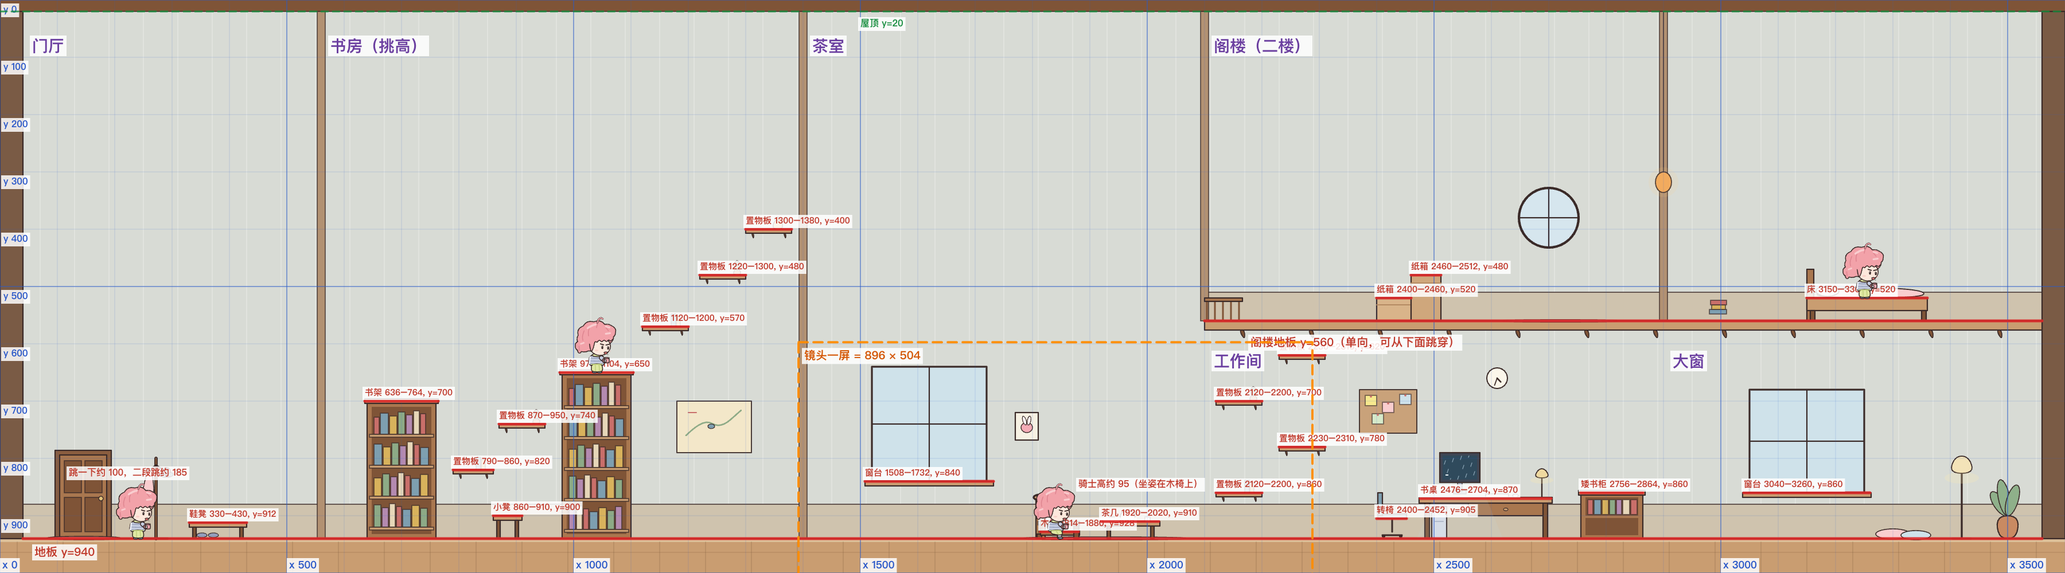
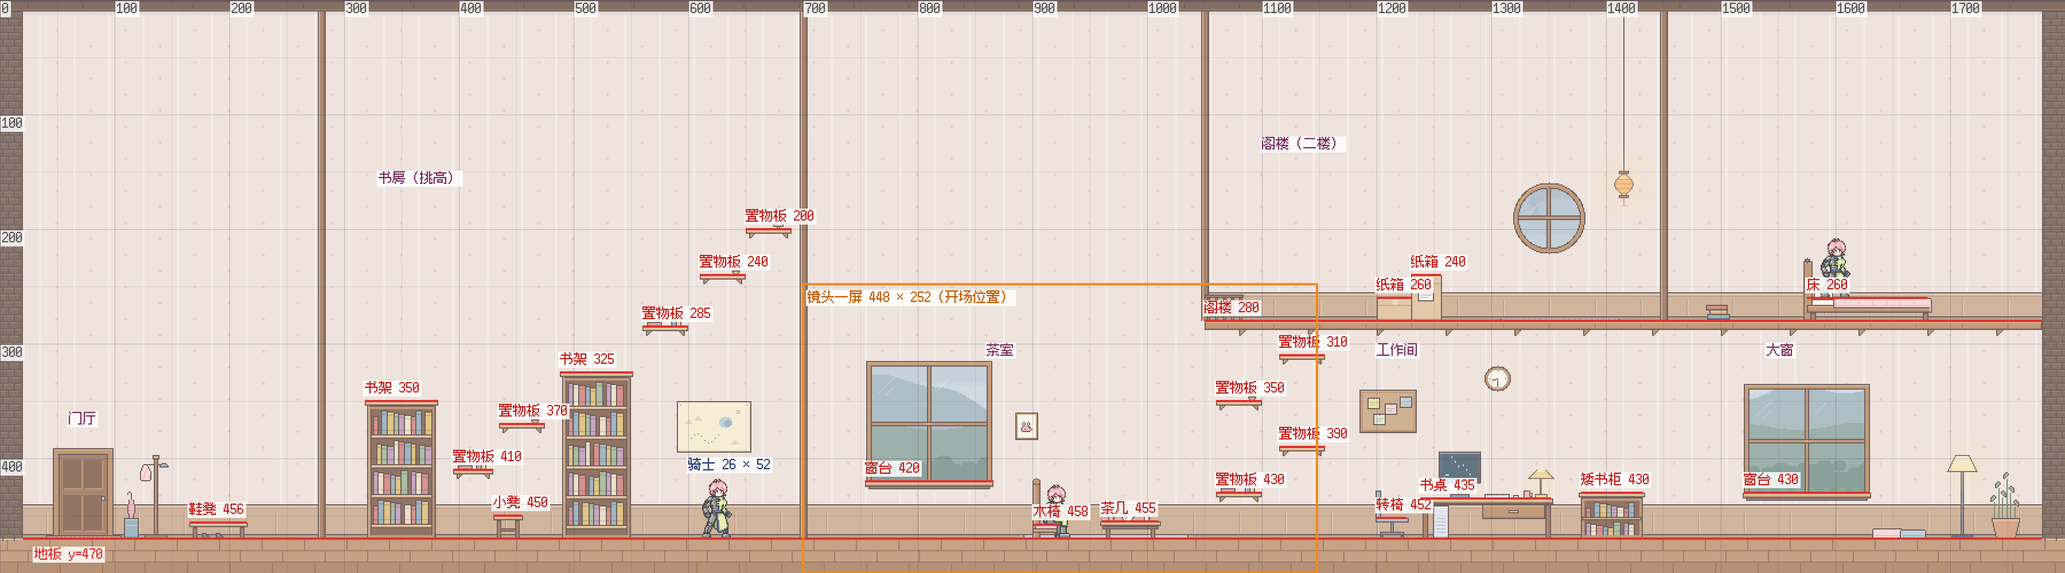
Add an 8-frame walk and rewrite the art brief for pixel art
- Walk cycle: legs redrawn as thigh, shin and boot with simple two-bone
  IK over classic contact / down / passing / up keyframes, with body bob,
  arm swing and tabard sway (temporary until commissioned frames arrive)
- Art brief: pixel coordinates, platform table, layer breakdown, sprite
  spec and delivery format; new 1x reference map, annotated layout guide,
  frame sheet with palette, and the current layers as PNGs
- Snap the office chair platform to a whole pixel

Changed region(s): [[0.0, 0.0, 1.0, 1.0]]

diff --git a/js/stage/sprites.js b/js/stage/sprites.js
@@ -5,7 +5,8 @@
    原图只有一帧（站姿），其余动作都是从它「改」出来的：
      呼吸：身体中间抽掉一行 → 头和肩膀往下沉 1 像素
      眨眼 / 开心（^ ^）：只改眼睛那几个像素
-     走路：后腿往前、前腿往后错开（按行逐渐错位），中间那帧身体抬高 1 像素
+     走路：8 帧，两条腿重新画（大腿 + 小腿 + 靴子，膝盖往前弯），身体一起一伏、两手前后摆、长摆轻晃
+           ——临时手调的，画师交稿后整套换掉
      起跳：膝盖收起（腿抽掉 4 行，整个人往上提）；下落：两腿微微分开；落地：蹲一下（抽掉 2 行）
      坐：上半身照旧，下半身换成画好的坐姿（大腿平放、小腿垂下）
    以后找画师画好真正的帧动画，只要换掉这里的帧就行（Room 只按名字取帧）
@@ -144,25 +145,84 @@ function kEyes(g0, kind){
   }
   return g;
 }
+/* ---------- 走路（8 帧）----------
+   经典走路循环：触地 → 下沉 → 交错（另一只脚抬起来）→ 上升 → 换另一只脚触地 …
+   每帧给出两只脚相对各自髋部的位置（x 偏移、抬起多高），膝盖用两段 IK 算出来、往前弯；
+   上半身、两只手、长摆从原图里切出来，按帧上下起伏 / 前后摆 */
+const WALK_BOB = [0, 1, 0, -1, 0, 1, 0, -1];
+const WALK_FRONT = [[6, 0], [4, 0], [0, 0], [-4, 0], [-7, 0], [-6, 0], [-1, 3], [4, 2]];   // 前腿（画面右边那条）
+const WALK_BACK = [[-6, 0], [-5, 0], [0, 3], [6, 2], [10, 0], [7, 0], [2, 0], [-3, 0]];    // 后腿（被长摆挡住一半）
+const BOOT_FRONT = ['.k1kkk...', 'k13222k..', 'k1322221k', 'k1111111k', 'kkkkkkkkk'];
+const BOOT_BACK = ['.kkkkk...', 'k12111k..', 'k1211111k', 'k1111111k', 'kkkkkkkkk'];
+const rHalfEven = v => { const f = Math.floor(v), d = v - f; return d > 0.5 ? f + 1 : d < 0.5 ? f : (f % 2 ? f + 1 : f); };
+function kLeg(F, hx, hy, fx, fy, back){
+  const L1 = 9.5, L2 = 9, R = 2.7;
+  const d = Math.min(Math.hypot(fx - hx, fy - hy), L1 + L2 - 0.01), a = Math.atan2(fy - hy, fx - hx);
+  const b = Math.acos(clamp((L1 * L1 + d * d - L2 * L2) / (2 * L1 * d), -1, 1));
+  const kx = hx + L1 * Math.cos(a - b), ky = hy + L1 * Math.sin(a - b);
+  const fill = back ? '1' : '2', lt = back ? '2' : '3';
+  const seg = (x0, y0, x1, y1) => {   // 粗线段：外圈黑边，靠前一侧亮、靠后一侧暗
+    const vx = x1 - x0, vy = y1 - y0, L = Math.hypot(vx, vy) || 1, nx = -vy / L, ny = vx / L;
+    for (let r = 0; r < F.length; r++) for (let c = 0; c < KW; c++){
+      const px = c - KPAD, t = clamp(((px - x0) * vx + (r - y0) * vy) / (L * L), 0, 1);
+      const cx = x0 + vx * t, cy = y0 + vy * t, dd = Math.hypot(px - cx, r - cy);
+      if (dd > R + 0.9) continue;
+      const side = (px - cx) * nx + (r - cy) * ny;
+      F[r][c] = dd > R - 0.4 ? 'k' : side < -1 ? '1' : side > 0.9 ? lt : fill;
+    }
+  };
+  seg(hx, hy, kx, ky); seg(kx, ky, fx, fy);
+  const kr = rHalfEven(ky), kc = rHalfEven(kx) + KPAD;   // 膝盖上的护甲亮点
+  if (F[kr]){ F[kr][kc] = back ? '2' : '3'; if (kc + 1 < KW) F[kr][kc + 1] = 'k'; }
+  const boot = back ? BOOT_BACK : BOOT_FRONT, bx = rHalfEven(fx) - 3 + KPAD, by = rHalfEven(fy) - 1;
+  boot.forEach((row, i) => [...row].forEach((ch, j) => { if (ch !== '.' && F[by + i] && bx + j < KW) F[by + i][bx + j] = ch; }));
+}
+function kWalkCycle(g0){
+  const src = g0.map(r => r.slice(KPAD, KPAD + 26)), at = (r, c) => (src[r] && src[r][c]) || '.';
+  const pick = (r0, r1, c0, c1, ok = () => true) => {
+    const out = [];
+    for (let r = r0; r <= r1; r++) for (let c = c0; c <= c1; c++) if (at(r, c) !== '.' && ok(r, c)) out.push([r, c]);
+    return out;
+  };
+  const key = ([r, c]) => r * 100 + c;
+  const lhand = pick(24, 33, 0, 7, (r, c) => !(r < 29 && c > 6));
+  const rhand = pick(28, 33, 21, 25);
+  const hands = new Set([...lhand, ...rhand].map(key));
+  const tab = pick(29, 46, 11, 21, (r, c) => !hands.has(r * 100 + c));
+  const tabSet = new Set(tab.map(key));
+  const body = pick(0, 28, 0, 25, (r, c) => !hands.has(r * 100 + c))
+    .concat(pick(29, 33, 6, 12, (r, c) => !hands.has(r * 100 + c) && !tabSet.has(r * 100 + c)));
+  return WALK_BOB.map((bob, i) => {
+    const F = kBlank(52), [fbx, fby] = WALK_BACK[i], [ffx, ffy] = WALK_FRONT[i];
+    kLeg(F, 8, 31 + bob, 8 + fbx, 47.5 - fby, true);
+    kLeg(F, 16, 31 + bob, 16 + ffx, 47.5 - ffy, false);
+    const put = (r, c, ch) => { if (F[r] && c >= 0 && c < KW) F[r][c] = ch; };
+    const sway = [0, 0, -1, -1, 0, 0, -1, -1][i], swing = ffx >= 3 ? 1 : (ffx <= -3 ? -1 : 0);
+    for (const [r, c] of body) put(r + bob, c + KPAD, at(r, c));
+    for (const [r, c] of tab) put(r + bob, c + KPAD + (r >= 40 ? sway : 0), at(r, c));
+    for (const [r, c] of lhand) put(r + bob, c + KPAD + (r >= 27 ? swing : 0), at(r, c));
+    for (const [r, c] of rhand) put(r + bob, c + KPAD - (r >= 29 ? swing : 0), at(r, c));
+    return F;
+  });
+}
 function kSit(g0){
   return g0.slice(0, 29).map(r => r.slice()).concat(kGrid(KNIGHT_SIT_LEGS));
 }
 
 /* KF[眼睛][动作] = { r: 朝右的画布, l: 朝左的画布, h: 高 }；K_DY：画的时候整体往上挪几像素 */
 const KF = {};
-const K_DY = { pass: -1, jump: -4 };
+const K_DY = { jump: -4 };
 for (const eye of ['open', 'blink', 'happy']){
   const g0 = kEyes(kGrid(KNIGHT_BASE), eye);
   const poses = {
     idle: g0,
     breathe: kDropRows(g0, 21, 1),
-    mid: kWalk(g0, 2, -2, 0),
-    pass: kWalk(g0, 5, -5, 1),
     jump: kDropRows(g0, 37, 4),
     fall: kWalk(g0, -2, 2, 0),
     land: kDropRows(g0, 37, 2),
     sit: kSit(g0),
   };
+  kWalkCycle(g0).forEach((g, i) => { poses['walk' + i] = g; });
   KF[eye] = {};
   for (const [name, g] of Object.entries(poses)){
     const rows = g.map(r => r.join(''));

diff --git a/js/stage/room.js b/js/stage/room.js
@@ -44,7 +44,7 @@ const CHAIR_SEAT = plat('木椅', 1802, 1848, 916);
 const PERCH = [1806, 824];             // 骑士坐着时，兔耳小鸟停在椅背顶上
 plat('茶几', 1920, 2020, 910);
 for (const [x0, x1, y] of [[2120, 2200, 860], [2230, 2310, 780], [2120, 2200, 700], [2230, 2310, 620]]) plat('置物板', x0, x1, y);
-plat('转椅', 2400, 2452, 905);
+plat('转椅', 2400, 2452, 904);
 plat('书桌', 2476, 2704, 870);
 plat('矮书柜', 2756, 2864, 860);
 plat('窗台', 3040, 3260, 860);
@@ -310,7 +310,7 @@ const Room = {
     if (this.sitting) return 'sit';
     if (!this.grounded) return this.vy < 0 ? 'jump' : 'fall';
     if (this.landT > 0) return 'land';
-    if (this.walking) return ['idle', 'mid', 'pass', 'mid'][Math.floor(this.phase / (Math.PI / 3)) % 4];
+    if (this.walking) return 'walk' + (Math.floor(this.phase / (Math.PI / 4)) % 8);   // 8 帧，满速约 14 帧/秒
     return (this.t % 1.6) < 0.8 ? 'idle' : 'breathe';
   },
   _drawKnight(q){

diff --git a/docs/art-brief/README.md b/docs/art-brief/README.md
@@ -1,83 +1,157 @@
-# 听雨 · 美术需求（给画师）
+# 听雨 · 美术需求（像素风 · 给画师）
 
-> 现在游戏里所有的画面都是**用代码画的**，没有图片文件：
-> - 房子、家具、窗外景色、前景：`js/stage/room.js`（`drawHouse`、`drawLibrary`、`drawStudy` 等函数）
-> - 骑士和兔耳小鸟：`js/stage/knight.js`（`drawKnight`、`drawBunny`）
->
-> 这个文件夹里的图就是从代码里导出来的参考图，请照着它的**尺寸和位置**重新画；风格可以自由发挥。
+听雨是一个在浏览器里用的效率工具（任务、番茄钟、习惯打卡）。左边是一个**横版 2D 的小房子**（空洞骑士那种纯侧面视角），粉发骑士可以在里面走、跳、坐。整个画面是**像素画**。
 
-## 参考图
+> 现在游戏里的画面都是**用代码临时画的**，没有图片文件。这个文件夹里的图是从游戏里导出来的参考图。
+> 请照着它们的**尺寸和位置**重画。风格、细节、配色可以自由发挥，只要还是像素画。
+
+---
+
+## 一、整体风格
+
+- **像素画**：不要抗锯齿、不要模糊、不要缩放或旋转出来的「半个像素」。
+  - 半透明只用在灯光、玻璃反光和阴影上。
+- **1 个像素就是游戏里的 1 格**：请按 **1 倍**画，不要放大后再交。
+  - 游戏会按整数倍放大显示（Mac 上大约 4 倍）。
+- **角色和背景要分得开**：
+  - 骑士用黑色描边、对比强。
+  - 房子的描边用深棕（参考 `#3d2c2a`），颜色比角色淡、灰一点，让角色跳出来。
+- **氛围**：下雨天、暖暖的木头小屋，有书、有茶、有电脑、有小盆栽。窗外一直在下雨（App 的名字就叫「听雨」）。
+- **主题色**：底部有 7 个主题色（墨黑、透白、雨蓝、浅绿、浅粉、灰紫、浅金），会改变**墙纸和地毯**的颜色。
+  - 请把墙纸、地毯各画成单独一层，用接近白色的浅灰画出明暗。
+  - 程序会按主题上色，其余部分只画一套就行。默认主题是「浅粉」。
+
+## 二、参考图
 
 | 文件 | 内容 |
 |---|---|
-| `house_reference.png` | 整张地图（3600 × 1000），干净版 |
-| `house_layout_guide.png` | 同一张图加标注：坐标网格（每 100 一格）、区域、**能站的平台（红线）**、镜头一屏的大小（橙色框）、骑士的大小 |
-| `knight_poses.png` | 骑士现有的姿势：IDLE、MOVE（4 帧）、JUMP、FALL、SIT、喝茶、举杯、眨眼；兔耳小鸟 |
+| `house_reference.png` | 整张地图，**1 倍像素**（1800 × 500），干净版，可以直接在上面改 |
+| `house_layout_guide.png` | 同一张图放大 2 倍并加了标注：<br>• 坐标网格（每 50 像素一格，数字是 1 倍坐标）<br>• 区域名<br>• **能站的平台（红线 + 高度）**<br>• 镜头一屏的大小（橙色框）<br>• 骑士的大小 |
+| `knight_frames.png` | 骑士现在所有的帧、兔耳小鸟、爱心，以及骑士用的 15 个颜色 |
+| `layers/` | 游戏里现在的各层（1 倍、透明 PNG）：<br>• 房子 `house.png`（窗户玻璃是透明的）<br>• 窗外远景 `far.png`<br>• 前景的柱子、盆栽、藤蔓 `fg_*.png`<br>• 木椅的扶手 `chair_front.png` |
 
-## 地图尺寸
+## 三、地图尺寸（全部是 1 倍像素坐标，左上角是 0,0）
 
-- 整张地图：**3600 × 1000**（约 4 屏宽、2 屏高）。为了清晰，建议按 **2 倍（7200 × 2000）** 画。
-- 镜头一屏：**896 × 504**（16:9），镜头会跟着骑士移动。
-- 地板顶面 y = 940；阁楼（二楼）地板顶面 y = 560，从 x = 2100 开始；屋顶 y = 20；左右墙在 x = 40 和 x = 3560。
-- 骑士高约 **95**（含大头），宽约 30。跳一下约 100 高，二段跳约 185 高。
+| | |
+|---|---|
+| 整张地图 | **1800 × 500**（约 4 屏宽、2 屏高） |
+| 镜头一屏 | **448 × 252**（16:9），跟着骑士移动 |
+| 地板顶面 | y = **470**（地板本身画到 500） |
+| 阁楼（二楼）地板顶面 | y = **280**，从 x = **1050** 一直到右墙 |
+| 屋顶 | y = 10；左右墙内侧在 x = 20 和 x = 1780 |
+| 骑士 | **26 × 52**；跳一下约 51 高，二段跳约 93 高 |
 
-## 请分层画（透明 PNG，或者带图层的 PSD）
+区域从左到右：
+- **门厅**：门、伞桶、衣帽架、鞋凳
+- **书房**：挑高到屋顶，两个高书架 + 一路往上的置物板，最高处有个小铃铛
+- **茶室**：窗、木椅、茶几、地毯、兔子小画；骑士开场坐在这里
+- **工作间**：在阁楼下面；软木板、挂钟、转椅、书桌、电脑、台灯、矮书柜
+- **大窗**：落地灯、坐垫、大盆栽
+- **阁楼**：栏杆、纸箱、灯笼、圆窗、床，从茶室旁边的一排置物板跳上去
 
-游戏里不同的层移动速度不一样（视差），所以必须分开：
+## 四、请分层画
+
+不同的层在游戏里移动速度不一样（视差），所以必须分开交：
 
 | 层 | 内容 | 说明 |
 |---|---|---|
-| 1. 远景 | 窗外的天、远山、云 | 只在窗户里露出来，镜头移动时它只动一半。画成一张比窗户大很多、能左右接起来的长条 |
-| 2. 背景 | 墙、墙纸、护墙板、屋顶梁、竖梁、窗框、门、墙上的画 / 地图 / 软木板 / 挂钟 | 不能站的东西都在这层 |
-| 3. 中景（家具） | 书架、置物板、小凳、茶几、木椅、书桌、电脑、转椅、矮书柜、床、纸箱、阁楼地板、地板 | 能站的家具**顶面要跟下表的 y 对齐**（误差最好在 2 以内）；能动的东西（电脑屏幕、台灯光、挂钟指针、茶壶热气）最好单独一张 |
-| 4. 前景 | 深色木柱、从屋顶垂下的藤蔓、大盆栽 | 离镜头最近，移动得比房子快；**每个物件单独一张** |
-| 5. 角色 | 骑士、兔耳小鸟 | 另外约稿（帧动画），见下面 |
+| 1. 远景 | 窗外的天、远山、树、雨云 | 只在窗户里露出来，镜头动时它只动一半。<br>画成一张宽约 1200、高约 340 的长条（参考 `layers/far.png`）。<br>雨丝由程序画，不用画。 |
+| 2. 背景 | 墙、屋顶梁、竖梁、护墙板、窗框、门、墙上的画 / 地图 / 软木板 / 挂钟表盘 | 不能站的东西。<br>**窗户的玻璃留透明**。<br>墙纸单独一层（见「一」）。 |
+| 3. 中景（家具） | 书架、置物板、小凳、茶几、木椅、书桌、电脑、转椅、矮书柜、床、纸箱、阁楼地板、地板、地毯（单独一层） | 能站的家具，**顶面要和下表的 y 对齐**（像素对像素）。 |
+| 4. 前景 | 深色木柱、从屋顶垂下的藤蔓、大盆栽 | 离镜头最近，移动得比房子快。<br>**每个物件单独一张**，颜色更深、更暗。 |
+| 5. 角色 | 骑士、兔耳小鸟 | 帧动画，见第六节。 |
 
-木椅要拆成两张：**椅背 + 椅座**（在骑士身后）和 **扶手 + 前腿**（骑士坐着时挡在他前面）。
+**要单独一张的小东西**（会动，程序来控制）：
 
-## 能站的平台（顶面坐标，必须对齐）
+| 物件 | 位置 / 大小 | 要画什么 |
+|---|---|---|
+| 电脑屏幕 | 左上角 (1257, 397)，31 × 22 | 2–4 帧，屏幕里在下雨 |
+| 挂钟 | 中心 (1305, 330)，半径约 10 | 表盘画在背景里；时针、分针单独画，或者交给程序 |
+| 台灯的光 | 中心 (1343, 421) | 抖动或半透明的光圈 |
+| 落地灯的光 | 中心 (1710, 410) | 同上 |
+| 灯笼的光 | 中心 (1415, 161) | 同上 |
+| 茶壶的热气 | 茶壶上方 (984, 443) | 3–4 帧 |
+| 主机的小灯 | (1255, 446) | 亮 / 暗两帧 |
+| 木椅 | 拆成两张 | **椅背 + 椅座**在骑士身后；**扶手**在骑士坐着时挡在他前面。<br>椅面顶 y = 458（离地 12 像素），椅背在 x = 900–906。 |
+
+## 五、能站的平台（顶面 y，必须对齐）
 
 | 名称 | x 范围 | 顶面 y |
 |---|---|---|
-| 地板 | 40 – 3560 | 940 |
-| 鞋凳 | 330 – 430 | 912 |
-| 书架 | 636 – 764 | 700 |
-| 置物板 | 790 – 860 | 820 |
-| 小凳 | 860 – 910 | 900 |
-| 置物板 | 870 – 950 | 740 |
-| 书架 | 976 – 1104 | 650 |
-| 置物板 | 1120 – 1200 | 570 |
-| 置物板 | 1220 – 1300 | 480 |
-| 置物板 | 1300 – 1380 | 400 |
-| 窗台 | 1508 – 1732 | 840 |
-| 木椅 | 1814 – 1880 | 928 |
-| 茶几 | 1920 – 2020 | 910 |
-| 阁楼 | 2100 – 3560 | 560 |
-| 置物板 | 2120 – 2200 | 700 |
-| 置物板 | 2120 – 2200 | 860 |
-| 置物板 | 2230 – 2310 | 620 |
-| 置物板 | 2230 – 2310 | 780 |
-| 纸箱 | 2400 – 2460 | 520 |
-| 转椅 | 2400 – 2452 | 905 |
-| 纸箱 | 2460 – 2512 | 480 |
-| 书桌 | 2476 – 2704 | 870 |
-| 矮书柜 | 2756 – 2864 | 860 |
-| 窗台 | 3040 – 3260 | 860 |
-| 床 | 3150 – 3360 | 520 |
+| 地板 | 20 – 1780 | 470 |
+| 鞋凳 | 165 – 215 | 456 |
+| 书架 | 318 – 382 | 350 |
+| 置物板 | 395 – 430 | 410 |
+| 小凳 | 430 – 455 | 450 |
+| 置物板 | 435 – 475 | 370 |
+| 书架 | 488 – 552 | 325 |
+| 置物板 | 560 – 600 | 285 |
+| 置物板 | 610 – 650 | 240 |
+| 置物板（小铃铛） | 650 – 690 | 200 |
+| 窗台 | 754 – 866 | 420 |
+| 木椅 | 901 – 924 | 458 |
+| 茶几 | 960 – 1010 | 455 |
+| 阁楼 | 1050 – 1780 | 280 |
+| 置物板 | 1060 – 1100 | 430 |
+| 置物板 | 1060 – 1100 | 350 |
+| 置物板 | 1115 – 1155 | 390 |
+| 置物板 | 1115 – 1155 | 310 |
+| 转椅 | 1200 – 1226 | 452 |
+| 纸箱 | 1200 – 1230 | 260 |
+| 纸箱 | 1230 – 1256 | 240 |
+| 书桌 | 1238 – 1352 | 435 |
+| 矮书柜 | 1378 – 1432 | 430 |
+| 窗台 | 1520 – 1630 | 430 |
+| 床 | 1575 – 1680 | 260 |
 
-平台都是「单向」的：从下面能跳穿上去，从上面落下能站住。如果画师想改家具的位置或高度，没关系，把新的坐标告诉我，我来改代码；只要跳得上去就行（相邻两层之间高度差最好不超过 100，用二段跳最多 185）。
+平台都是「单向」的：从下面能跳穿上去，从上面落下能站住。
 
-## 骑士 / 小鸟（帧动画）
+想改家具的位置或高度没关系，把新坐标告诉我，我来改代码。只要跳得上去就行：
+- 相邻两层的高度差，最好不超过 **50**（一跳）；
+- 用二段跳最多 **90**。
 
-- 只需要画**一个朝向（面朝右）**，往左走时程序会镜像。
-- 需要的动作：IDLE（呼吸 + 眨眼）、MOVE（走路一个循环）、JUMP（起跳）、FALL（下落）、二段跳（可以加一下扑翅膀）、SIT（坐在木椅上）、喝茶、举杯；兔耳小鸟：飞行循环。
-- 每个动作 4–8 帧；所有帧画布一样大，**脚底在同一条线上**（坐姿以椅座为准）。
-- 推荐用 Aseprite（像素风）或 Spine / 分层 PSD（手绘风）交付；Aseprite 请把每个动作用标签分好、设好每帧时长，并导出 PNG 精灵图 + JSON。
+## 六、骑士（帧动画）
 
-## 交付后
+现在游戏里的骑士是一张 26 × 52 的像素图（见 `knight_frames.png` 第一格）。只有这一帧是手画的，其余动作都是程序从它改出来的临时帧，所以动作比较僵。**请在这张图的基础上画出下面的动作**：
 
-把文件放进 `assets/house/`（背景各层）和 `assets/knight/`（角色），告诉我文件名，我把代码里画的部分换成图片。
+| 动作 | 建议帧数 | 每帧时长 | 说明 |
+|---|---|---|---|
+| 站立 IDLE | 4–6 | 150–200 ms | 循环；呼吸、长摆轻晃 |
+| 眨眼 | 1–2 | — | 只画眼睛那几帧，程序随机插进去 |
+| 走路 MOVE | 6–8 | 80–100 ms | 循环；两腿交替迈步、手臂前后摆、身体一起一伏、长摆跟着晃 |
+| 起跳 JUMP | 2 | — | 上升时收腿 |
+| 下落 FALL | 2 | — | 下落时腿伸开 |
+| 落地 LAND | 1–2 | 60 ms | 蹲一下 |
+| 二段跳 | 2–3 | 60–80 ms | 空中蹬一下或翻身；脚下会有程序画的一圈羽毛 |
+| 坐 SIT | 1–2 | — | 坐在木椅上（大腿平放在离地 12 像素的椅面上，小腿垂下）；可以加一个喝茶的小动作 |
+| 开心 | 3–4 | 80–100 ms | 被点一下、完成任务或番茄钟结束时；会配合一个小跳和爱心 |
 
-## 版权
+- **只画一个朝向：面朝右**，往左走时程序会镜像。
+- **画布**：每一帧一样大，建议 **48 × 56**。人物脚底中点放在**第 24 列、最后一行**；所有帧都对齐到这个点，换帧时人才不会抖（坐姿也一样，靴底贴在最后一行）。
+- **大小**：人还是约 52 像素高（头顶到靴底），和现在一样。
+- **颜色**：沿用现在的 15 个颜色（`knight_frames.png` 底部有色号），需要的话可以加几个。描边保持黑色。
+- **兔耳小鸟**：约 14 × 13（最大 16 × 16）；飞行循环 2–4 帧，停着 1 帧，同样面朝右。
 
-约稿合同里请写明：可以修改、拆分图层、做成动画并在本 App 中使用（以后可能收费的话，写上可以商用）。
+## 七、可选
+
+- **应用图标**：一个像素风的图标（比如骑士的头或者小鸟），按 32 × 32 或 64 × 64 画，我来放大成 512 × 512。
+- **界面小图标**：左上角的小喇叭（有声 / 静音）现在是 13 × 8；还有任务的勾选框。可以一起换成统一风格。
+- **粒子**：爱心（现在 7 × 6）、羽毛、落地的灰尘。
+
+## 八、交付
+
+- **格式**：
+  - 1 倍像素、透明背景的 **PNG**；
+  - 最好附上 **Aseprite 源文件**（`.aseprite`），每个动作用 Tag 分好、设好每帧时长；
+  - 角色导出 **PNG 精灵图 + JSON**（Aseprite 的 Export Sprite Sheet → JSON Array，勾上 Tags）。
+- **放哪**：
+  - 房子各层：`assets/house/`，文件名写清楚是哪一层，比如 `back.png`、`mid.png`、`fg_pillar.png`；
+  - 角色：`assets/knight/`；
+  - 小鸟：`assets/bird/`。
+- 告诉我文件名，我把代码里画的部分换成图片。
+
+## 九、版权
+
+约稿合同里请写明：
+- 可以修改、拆分图层、做成动画，并在本 App 中使用；
+- 以后可能收费的话，写上可以商用。

diff --git a/README.md b/README.md
@@ -11,13 +11,13 @@ A planner that runs in the browser: tasks, a pomodoro timer and habit tracking, 
 - **轻重 (Eisenhower matrix)** — tag tasks 马上做 / 排时间 / 顺手做 / 放一放 (important × urgent). Add tasks inside a quadrant and drag them between quadrants.
 - **Habits** — daily check-ins, current and best streaks, and a 22-week grid.
 - **倒数 (countdowns)** — days until an exam, trip or deadline. Yearly ones (birthdays, anniversaries) repeat and show which year it is; past dates count up.
-- **House** — a pixel-art, Hollow Knight-style side-view map (1800 × 500 pixels, about 4 screens wide × 2 tall) with a camera that follows the pink-haired knight. The knight is the repo owner's own 26 × 52 pixel sprite. He starts sitting in his wooden armchair. A / D walk, Space jumps (hold for higher, with coyote time, jump buffering and a slight hang at the apex; press again in the air for a double jump with a burst of feathers), and S drops through furniture. E is reserved for interactions (none yet). Areas: entrance, a double-height library with shelves to climb, a tea corner, a study with a computer (it rains on the screen) and a real-time wall clock, plus a loft with a bed, reached by shelf steps. Animations: SIT, IDLE (breathing, blinking), MOVE, JUMP, FALL and LAND, plus dust. Parallax: the rainy view outside the windows moves slower and foreground pillars, ivy and plants move faster. His bunny-eared bird flies along. Click him, finish a task, check a habit or end a pomodoro and he hops with a happy face and hearts. There's a mute button (key M), and the color swatches tint the wallpaper and rug.
+- **House** — a pixel-art, Hollow Knight-style side-view map (1800 × 500 pixels, about 4 screens wide × 2 tall) with a camera that follows the pink-haired knight. The knight is the repo owner's own 26 × 52 pixel sprite. He starts sitting in his wooden armchair. A / D walk, Space jumps (hold for higher, with coyote time, jump buffering and a slight hang at the apex; press again in the air for a double jump with a burst of feathers), and S drops through furniture. E is reserved for interactions (none yet). Areas: entrance, a double-height library with shelves to climb, a tea corner, a study with a computer (it rains on the screen) and a real-time wall clock, plus a loft with a bed, reached by shelf steps. Animations: SIT, IDLE (breathing, blinking), MOVE (8-frame walk), JUMP, FALL and LAND, plus dust. Parallax: the rainy view outside the windows moves slower and foreground pillars, ivy and plants move faster. His bunny-eared bird flies along. Click him, finish a task, check a habit or end a pomodoro and he hops with a happy face and hearts. There's a mute button (key M), and the color swatches tint the wallpaper and rug.
 - **Pixel UI** — the panel uses the [Fusion Pixel](https://github.com/TakWolf/fusion-pixel-font) font (SIL OFL 1.1, loaded from jsDelivr and cached for offline use), square 2px borders and hard shadows.
 - **Offline & installable** — install it as an app from Chrome or Edge.
 
 ## Art
 
-The scene is pixel art at 1 pixel = 2 world units, scaled up by whole numbers so pixels stay square. The house is drawn in code (`js/stage/house.js`). The knight's frames (`js/stage/sprites.js`) are all derived from one hand-drawn 26 × 52 sprite: breathing, blinking, walking, jumping, landing and sitting. Commissioned frame animations can replace them later. An art brief for commissioning real artwork, with reference images, layer breakdown and platform coordinates, is in [`docs/art-brief/`](docs/art-brief/README.md). It still describes the earlier hand-drawn version.
+The scene is pixel art at 1 pixel = 2 world units, scaled up by whole numbers so pixels stay square. The house is drawn in code (`js/stage/house.js`). The knight's frames (`js/stage/sprites.js`) are all derived from one hand-drawn 26 × 52 sprite: breathing, blinking, an 8-frame walk (legs redrawn with simple two-bone IK), jumping, landing and sitting. Commissioned frame animations can replace them later. A pixel-art brief for commissioning artwork is in [`docs/art-brief/`](docs/art-brief/README.md). It has reference images at 1× pixels, an annotated layout guide, the current layers, pixel platform coordinates and the sprite spec.
 
 ## Your data
 
